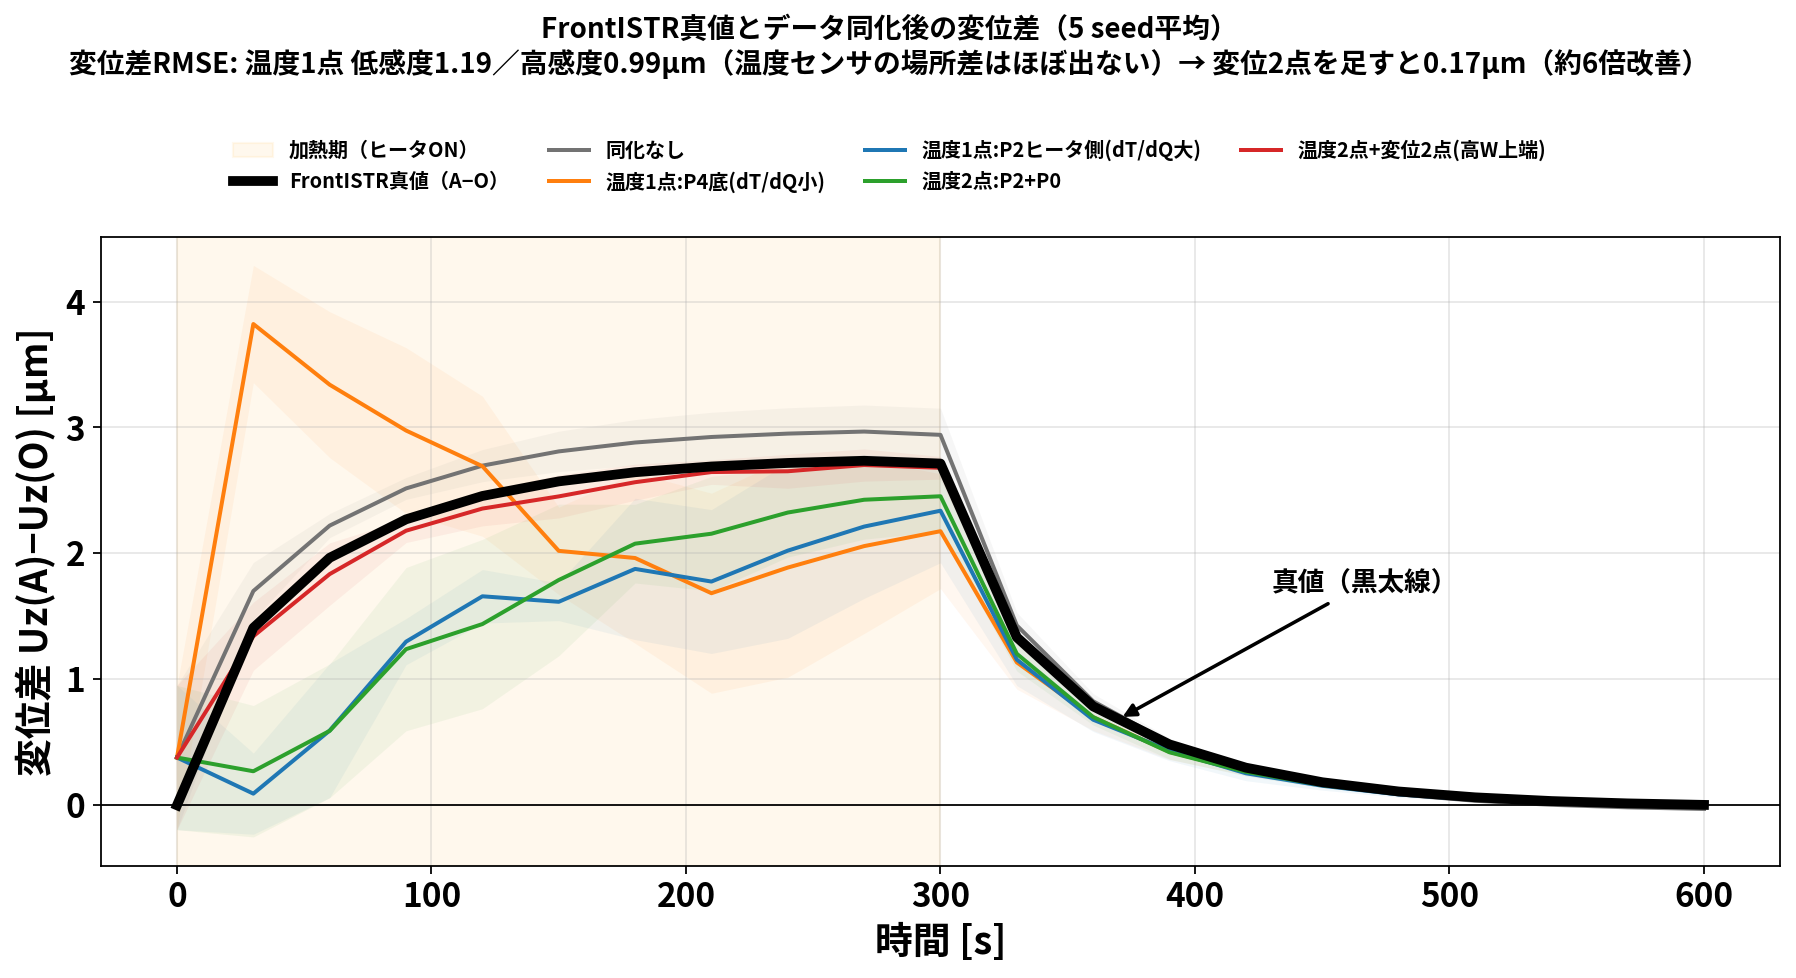
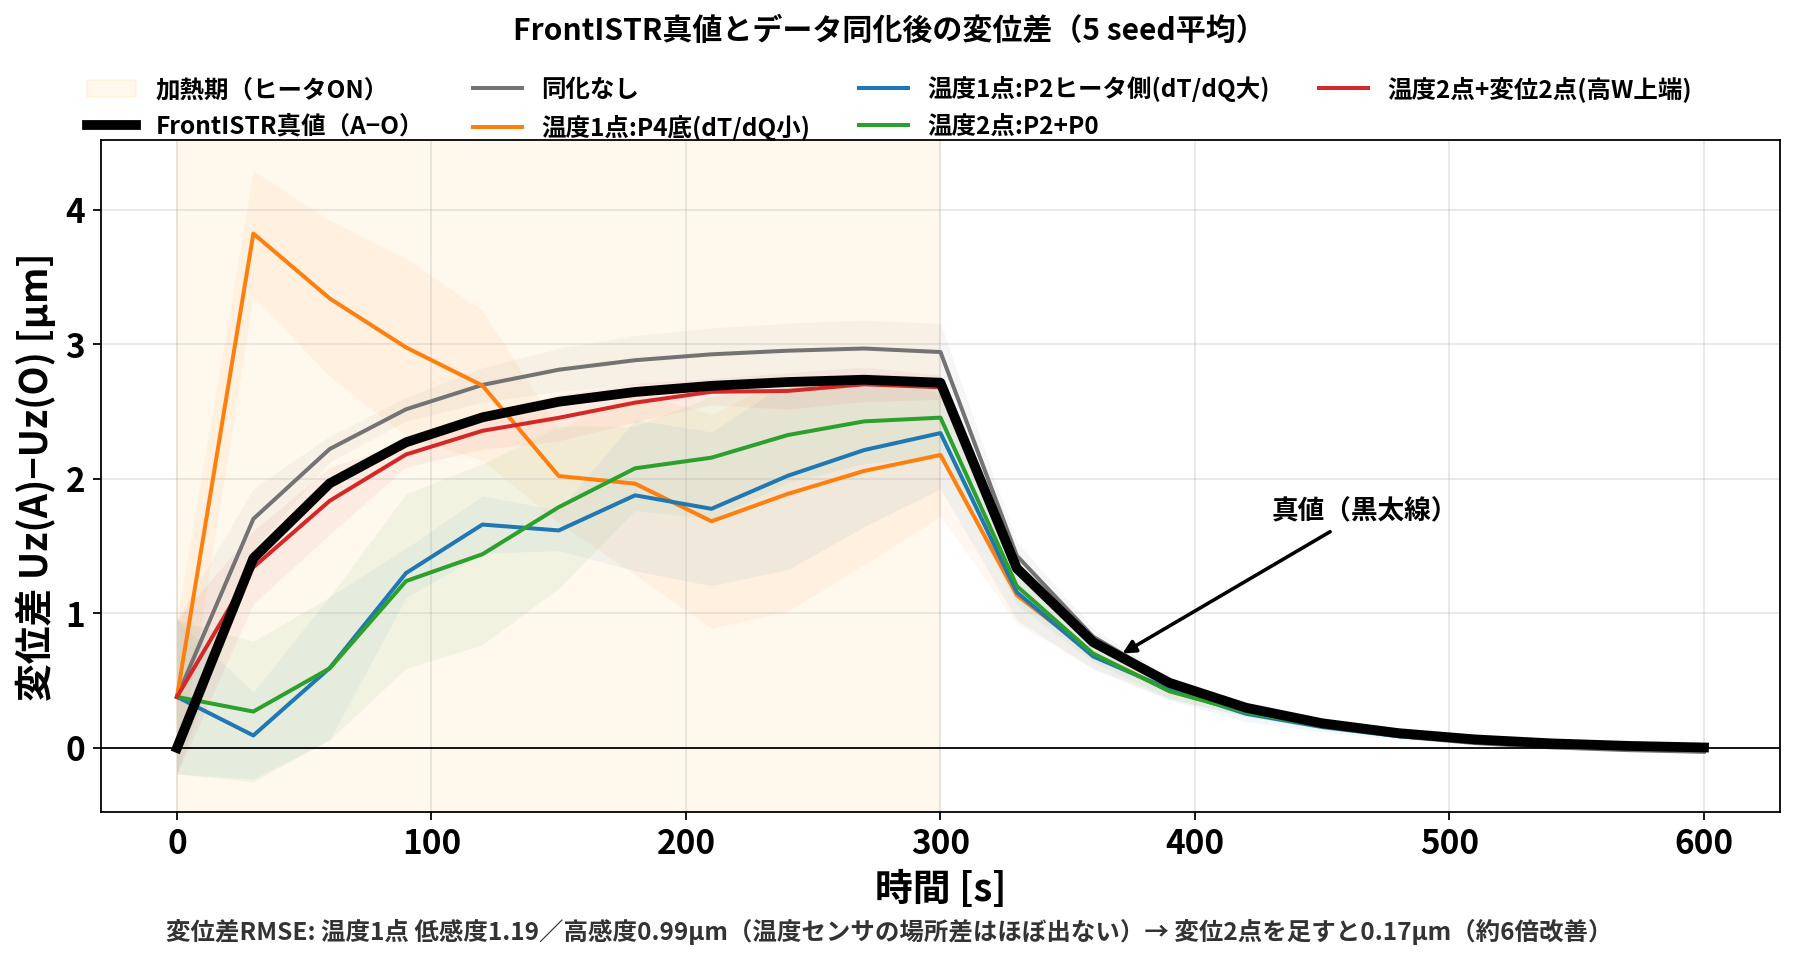
gh-pages: 未観測6点の図と図スタイル統一を反映
Claude-Session: https://claude.ai/code/session_019xcHJweBHNkHYnyYJFBYsh

diff --git a/blog004.html b/blog004.html
@@ -1654,6 +1654,20 @@ alt="個別のUz(A)/Uz(O)と差の比較" />
 （P2ヒータ側→A良0.41／O悪1.33µm、P4底→O良0.65／A悪1.75µm）。<strong>変位2点（赤）だけが両点とも0.16µm</strong>で合う。
 →
 教訓：<strong>変位を合わせたい場所には変位観測を置く。そして評価は差だけでなく個別の変位でも行う</strong>。</em></p>
+<p><strong>仕上げに、まったく別の未観測点でも確認</strong>します。観測点（赤/橙）から離れた
+<strong>未観測の温度3点（緑）と変位3点（紫）</strong>の位置はこちら:</p>
+<p><img src="img/unobs_points_locations.png" alt="観測点と未観測評価点の位置" width="440"></p>
+<p>この6か所すべてで、真値と各構成を時系列比較すると:</p>
+<figure>
+<img src="img/unobs_multi_timeseries.png"
+alt="未観測の温度3点・変位3点の時系列" />
+<figcaption
+aria-hidden="true">未観測の温度3点・変位3点の時系列</figcaption>
+</figure>
+<p><em>同化なし（灰）は6点すべてで大外れ。同化した構成は<strong>観測していない場所でも</strong>真値に沿い、
+温度＋変位（赤）が最も近い（特に底面側の温度と z=75mm
+反対側の変位の立ち上がり）。
+<strong>少数の観測が、観測していない場所まで直す</strong>――これがデータ同化＋POD復元の価値です。</em></p>
 <blockquote>
 <p><strong>凡例の「高感度／低感度」の意味</strong>：ここでの感度は
 <strong>発熱量への温度感度 <span class="math inline">\(\partial
